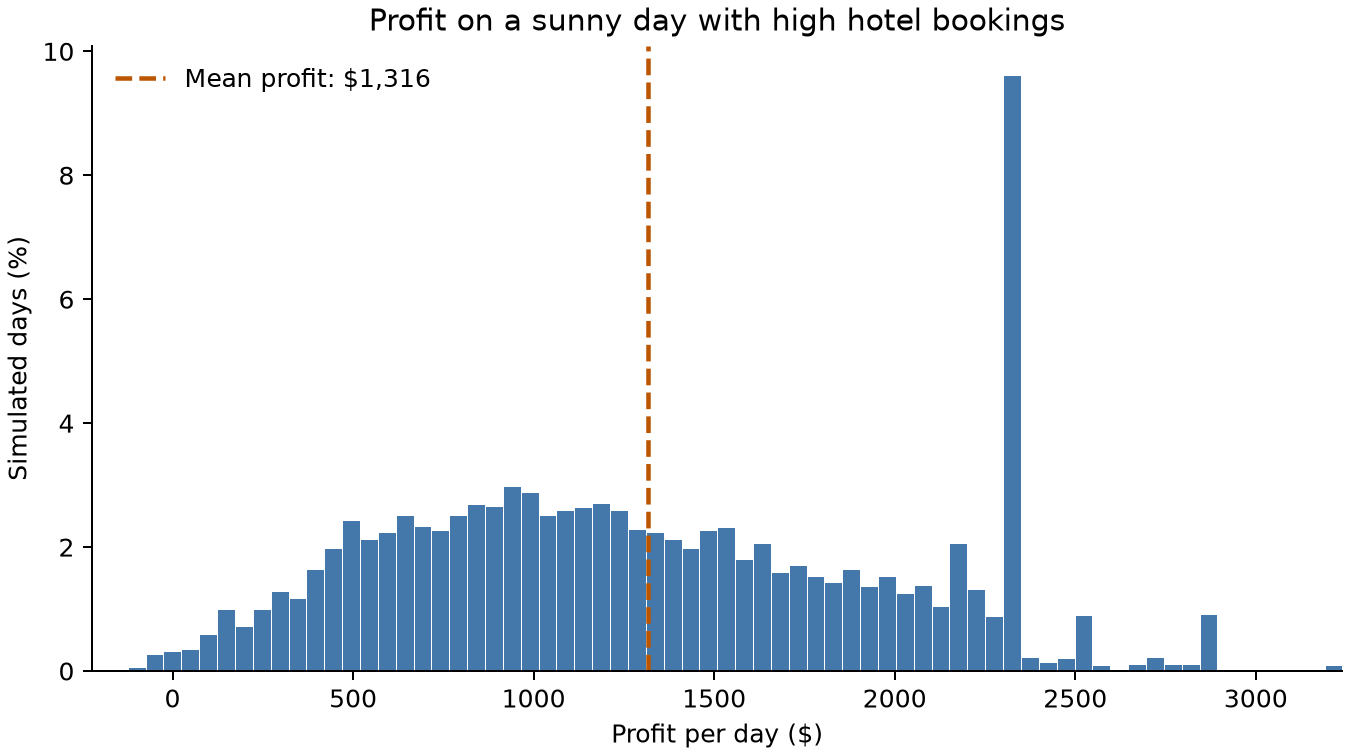
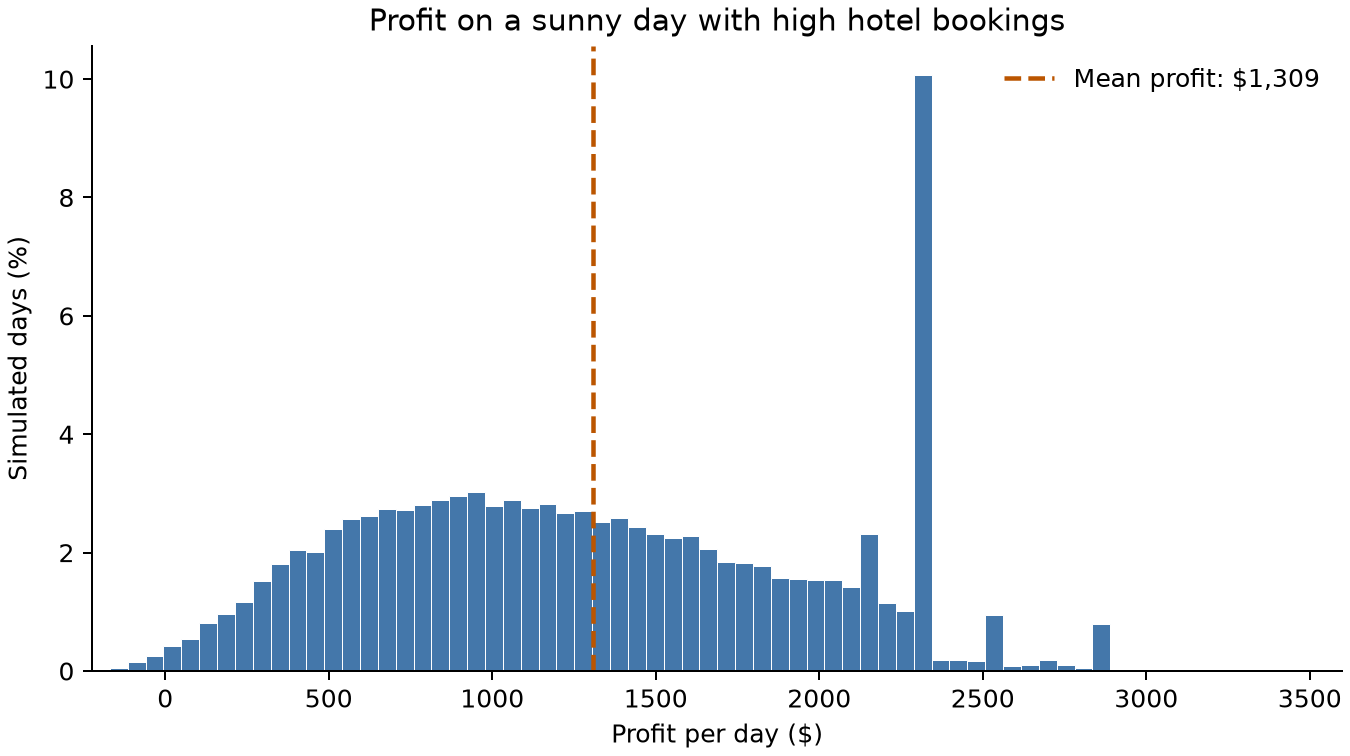
docs: update inference guide for fitted-policy conditioning

diff --git a/docs/_static/figures/inference/plot_recommended_policy_profit.py b/docs/_static/figures/inference/plot_recommended_policy_profit.py
@@ -28,7 +28,7 @@ figures = [
         "recommended_policy_profit.png",
     ),
     (
-        namespace["sunny_profit"],
+        namespace["sunny_profit"].values,
         "Profit on a sunny day with high hotel bookings",
         "sunny_policy_profit.png",
     ),

diff --git a/design/documentation_update_todo.md b/design/documentation_update_todo.md
@@ -12,11 +12,11 @@ Update the existing documentation for the policy-gradient-only API, preserving t
 | Building a diagram | Complete. Uses `TabularSoftmax`, retains the construction and editing examples, and executes successfully. |
 | Distributions and utilities | Complete. The combined and split utility models produce matching fitted probabilities and expected profit. |
 | Solving a diagram | Complete. Fitted-policy summaries, training comparisons, wider order menu, cart coordination, and continuous information examples execute successfully. |
-| Inference | Next. Update fitted-policy evaluation and the sunny/high-bookings scenario within the current support boundaries. |
+| Inference | Complete. Uses fitted policies with direct chance-node conditioning, and the examples, figures, and API-reference boundaries have been checked. |
 | Remaining guides, resources, README, and figures | Pending. Follow the page-by-page checklist below. |
-| Full strict documentation build | Failing with six warnings: notebook failures and paired traceback warnings in Inference, Multiple decisions, and Count distributions. |
+| Full strict documentation build | Failing with four warnings: notebook failures and paired traceback warnings in Multiple decisions and Count distributions. The inference page executes without warnings. |
 
-The API reference, quickstart, and first three user guides are complete, but the documentation migration is still in progress. The current Solving update is uncommitted. The build evidence and checks are recorded in the [verification log](#verification-log).
+The API reference, quickstart, and first four user guides are complete, but the documentation migration is still in progress. The build evidence and checks are recorded in the [verification log](#verification-log).
 
 ## Starting point
 
@@ -49,7 +49,7 @@ The API reference now covers the current contract. Unchecked items in this secti
 - [ ] Update errors and examples for `InferenceError`, `SolveError`, and configuration `ValueError`s according to the implementation.
 - [ ] Repair imports and cross-references for the graph, diagram, node, and policy packages. Keep internal helpers out of the public API reference.
 - [ ] Explain that fitted actions remain stochastic, expected utility is estimated on independent scenarios, and training gives no convergence or optimality guarantee. Distinguish evaluation noise from policy quality and explain poorly visited or impossible tabular rows where relevant.
-- [ ] Preserve the current inference and distribution boundaries: finite categorical actions, JAX-traceable functions, explicit information and memory arcs, count-support limits, and unsupported posterior inference through relevant function or fitted policy rules.
+- [ ] Preserve the current inference and distribution boundaries: finite categorical actions, JAX-traceable functions, explicit information and memory arcs, count-support limits, posterior conditioning through fitted categorical policies, and forward-only evaluation of supplied deterministic function policies.
 
 ## Page-by-page work
 
@@ -60,7 +60,7 @@ For each page, read the existing prose first, update the example and its interpr
 - [x] `docs/user_guide/building_a_diagram.md`: introduce the required decision configuration while preserving the build, validate, and draw progression.
 - [x] `docs/user_guide/distributions_and_utilities.md`: check model consistency, JAX requirements, inference claims, examples, and demand figures.
 - [x] `docs/user_guide/solving.md`: explain fitting a policy, choosing a family, controlling training and evaluation, reading stochastic results, and checking the expanded order menu.
-- [ ] `docs/user_guide/inference.md`: evaluate fitted policies with the current API while preserving the intentional booking-information variant, aligned draws, comparisons, and inference figures.
+- [x] `docs/user_guide/inference.md`: evaluate fitted policies with the current API while preserving the intentional booking-information variant, aligned draws, comparisons, and inference figures.
 - [ ] `docs/user_guide/multiple_decisions.md`: preserve the promotion story and explain joint fitting with explicit information parents and memory.
 - [ ] `docs/resources/common_pitfalls.md` and `docs/resources/count_distributions.md`: update standalone examples and diagnostics; remove obsolete solver advice while retaining relevant modeling and inference limits.
 - [ ] `docs/index.md`, `docs/getting_started/installation.md`, and `README.md`: align claims, quick examples, links, and terminology with the updated guides. Keep the README example consistent with the quickstart.
@@ -220,6 +220,17 @@ Completed on 2026-10-26 without committing. Updated the shared model, fitted-rul
 - The page produces no warnings. The strict full build now exits with code **1** and **six warnings**, all from the remaining Inference, Multiple decisions, and Count distributions notebook failures and their traceback reports. Removed-name references no longer produce warnings. Log: `docs/_build/solving-update.log`.
 - Checked **116 local page and anchor links** and **three image references**; all resolve. Ruff lint, formatting, type checks, and `git diff --check` pass. No library code or figure scripts changed.
 
+### Inference update
+
+Updated on 2026-10-27. The sunny/high-bookings scenario now passes `observed={"weather": 1, "bookings": 1}` together with the fitted policy and obtains 50,000 conditional profit draws directly. The hotel-report information arc and refitting example remain, along with the original weather-based policy, fixed-order comparison, and sunny-day stockout question. The page explains aligned draws and support for fitted rules with continuous or mixed information. The inference and policy API pages now describe the same support boundary.
+
+- All **nine code cells** execute successfully, with no notebook errors or inference-page warnings. Verified the displayed policy probabilities and numerical outputs against the executed notebook.
+- The original policy's independently estimated expected profit is **626.50**, and the inference draws estimate **631.16**. For sunny days with high bookings, the refitted rule assigns about **70%** probability to ordering **260** ice creams and the conditional mean profit is **1309.28**. The fixed-order comparison estimates **562.20**, sunny-day demand averages **150.44**, and the stockout probability is **43.0%**. Prose and figure labels use the corresponding rounded values.
+- Regenerated and visually inspected all four inference figures. The recommended-profit and sunny/high-bookings images changed. The comparison and sunny-demand images are unchanged. The plotting script now reads conditional profit draws from their `Posterior` object. Log: `docs/_build/inference-conditioning-figures.log`.
+- The strict full build with forced notebook execution exits with code **1** and **four warnings**, all from the pending Multiple decisions and Count distributions notebook failures and their traceback reports. Log: `docs/_build/inference-conditioning-build.log`. The subsequent incremental build of the updated API references succeeds without warnings. Log: `docs/_build/inference-conditioning-api-build.log`.
+- Checked **113 local links and anchors** and **seven image references** in the rendered inference page. All resolve.
+- Full test suite: **410 passed**. Ruff lint, formatting, type checks, and `git diff --check` pass. Test log: `docs/_build/inference-conditioning-tests.log`. No library code changed.
+
 ## Next step
 
-Update `docs/user_guide/inference.md` for fitted stochastic policies, preserving the questions about recommended profit, an alternative order, and sunny-day demand. Adapt the sunny/high-bookings profit scenario through a supported representation: relevant fitted policies cannot currently be combined with observed chance-node evidence. Re-run the examples and regenerate affected figures without replacing the fitted rules with deterministic actions.
+Continue with `docs/user_guide/multiple_decisions.md`, preserving the promotion story and explicit-memory lesson while adapting it to joint stochastic policy fitting. Count distributions and the remaining checklist items follow separately.

diff --git a/docs/user_guide/inference.md b/docs/user_guide/inference.md
@@ -119,16 +119,16 @@ recommended_profit = infer(
 round(recommended_profit.mean().item(), 1)
 ```
 
-The result is a {py:class}`Posterior` object whose `values` are a JAX array containing the profit draws. Each draw represents the profit on one possible day (i.e., the model draws values for weather, `busyness`, hotel bookings and demand, and the policy samples an order from its fitted probabilities).
+The result is a {py:class}`Posterior` object whose `values` are a JAX array containing the profit draws. Each draw represents the profit on one possible day (i.e., the model draws values for weather, `busyness`, hotel bookings and demand, and the policy samples an order from its fitted probabilities). When we query several nodes in the same call, values at the same position in their arrays describe the same day.
 
-Numerical summaries such as `mean()` also return JAX arrays. For this scalar profit node, the mean is a zero-dimensional array; `.item()` converts it to a Python number for display above.
+Numerical summaries such as `mean()` also return JAX arrays. For this scalar profit node, the mean is a zero-dimensional array. `.item()` converts it to a Python number for display above.
 
 Here `num_samples` is the number of days to simulate. `rng_key` controls their randomness and defaults to a fixed key, so repeated calls with the same model and settings are reproducible.
 
 ```{admonition} Why the estimates differ
 :class: info
 
-Here {py:func}`solve` estimates an expected profit of \$632, while {py:func}`infer` estimates \$634, both under the same policy. This small mismatch comes from using different simulated days.
+Here {py:func}`solve` estimates an expected profit of \$626.5, while {py:func}`infer` estimates \$631.2, both under the same policy. This small mismatch comes from using different simulated days.
 ```
 
 If we plot the resulting draws, we get the following long-tailed distribution:
@@ -138,7 +138,7 @@ If we plot the resulting draws, we get the following long-tailed distribution:
 :width: 90%
 ```
 
-The spikes at \$720 and \$2,340 correspond to selling all 80 ice creams on a cloudy day or all 260 ice creams on a sunny day. However, once the shop sells out, higher demand cannot increase that day's profit.
+The main spikes at \$720 and \$2,340 correspond to selling all 80 ice creams on a cloudy day or all 260 ice creams on a sunny day, the orders favoured by the fitted policy. Once the shop sells out, higher demand cannot increase that day's profit.
 
 ### What if today is sunny and hotel bookings are high?
 
@@ -162,23 +162,22 @@ report_solution = solve(report_diagram)
 print(report_solution.render())
 ```
 
-We can now use {py:func}`infer` to see the distribution of profits for sunny days with high bookings under that policy. Fitted policies currently support forward simulation without `observed`, so we draw weather, bookings and profit together, then keep the days matching the report. Values at the same position in each array belong to the same simulated day:
+We can now use {py:func}`infer` to see the distribution of profits for sunny days with high bookings under that policy. We pass both observations through `observed`, using state index `1` for `"sunny"` and `"high"`:
 
 ```{code-cell} ipython3
-report_draws = infer(
+sunny_profit = infer(
     report_diagram,
-    query=["weather", "bookings", "profit"],
+    query=["profit"],
+    observed={"weather": 1, "bookings": 1},
     policy=report_solution.policy,
     num_samples=50_000,
-)
-sunny_high = (report_draws["weather"].values == 1) & (
-    report_draws["bookings"].values == 1
-)
-sunny_profit = report_draws["profit"].values[sunny_high]
+)["profit"]
 round(sunny_profit.mean().item(), 1)
 ```
 
-The new policy recommends ordering 280 ice creams, with an estimated average profit of about \$1,310. We can also see the distribution of profits for that day:
+These 50,000 draws describe days consistent with both observations. `infer` uses the policy's learned action probabilities when conditioning the model. We can also combine fitted policies with `observed` when their information parents are continuous or mixed.
+
+For sunny days with high bookings, the fitted rule assigns about 70% probability to ordering 260 ice creams. Its probabilities are less concentrated than in the other rows, and this combination of weather and bookings appears less often during training. The estimated average profit is about \$1,309. We can also see the distribution of profits for that day:
 
 ```{figure} /_static/figures/inference/sunny_policy_profit.png
 :alt: Histogram of profit on a sunny day with high hotel bookings under the policy that uses both variables, with a line marking its mean.
@@ -199,7 +198,7 @@ alternative_profit = infer(
 round(alternative_profit.mean().item(), 1)
 ```
 
-The mean of these draws gives an estimated expected profit of about \$562, compared with \$634 under the recommended policy. We can also compare both distributions, using no observations in either case:
+The mean of these draws gives an estimated expected profit of about \$562, compared with \$631 under the recommended policy. We can also compare both distributions, using no observations in either case:
 
 ```{figure} /_static/figures/inference/policy_comparison.png
 :alt: Histograms comparing profit under the recommended weather-based policy and a fixed order of 160 ice creams, with lines marking their means.
@@ -237,3 +236,5 @@ To estimate the probability of running out, we count how many demand draws excee
 stockout_probability = (sunny_demand.values > 150).mean()
 f"{stockout_probability:.1%}"
 ```
+
+Under this model, demand exceeds the available stock on about 43% of sunny days.

diff --git a/design/documentation_plan.md b/design/documentation_plan.md
@@ -1,6 +1,6 @@
 # Documentation maintenance
 
-Maintenance guide for the published documentation in `docs/` and the project `README.md`. The engine has been refactored to policy-gradient-only optimization. The API reference, quickstart, and first three user guides now describe the current contract; the remaining guides and README examples await migration. Progress and verification are tracked in [the documentation update checklist](documentation_update_todo.md). Read this before changing published pages, and update it when the structure or conventions change. Public API details belong in docstrings and the API reference; build instructions live in [docs/README.md](../docs/README.md).
+Maintenance guide for the published documentation in `docs/` and the project `README.md`. The engine has been refactored to policy-gradient-only optimization. The API reference, quickstart, and first four user guides now describe the current contract. The remaining guides and README examples await migration. Progress and verification are tracked in [the documentation update checklist](documentation_update_todo.md). Read this before changing published pages, and update it when the structure or conventions change. Public API details belong in docstrings and the API reference. Build instructions live in [docs/README.md](../docs/README.md).
 
 ## Site structure and scope
 
@@ -37,7 +37,7 @@ Keep the quickstart and README's order menu at 0–200. The Solving guide delibe
 
 ### Accuracy and examples
 
-- Check API claims against the implementation and API reference. `solve` always jointly trains the declared policy families; the built-in families are `LinearSoftmax` and `TabularSoftmax`, and custom families implement `PolicyFamily`. There is no solver selector. Each rule receives only its declared information parents, including explicit memory arcs. Fitted policies remain stochastic during forward evaluation. Describe independent utility estimates as approximate results, with no convergence or optimality certificate. Posterior inference through fitted policies and supplied functions remains unsupported. Keep distribution contracts in `ChanceNode`.
+- Check API claims against the implementation and API reference. `solve` always jointly trains the declared policy families; the built-in families are `LinearSoftmax` and `TabularSoftmax`, and custom families implement `PolicyFamily`. There is no solver selector. Each rule receives only its declared information parents, including explicit memory arcs. Fitted policies contribute their learned action probabilities to forward evaluation and posterior conditioning, including with continuous or mixed information. Describe independent utility estimates as approximate results, with no convergence or optimality certificate. Supplied deterministic function policies still support forward evaluation only. Keep distribution contracts in `ChanceNode`.
 - Distributions and utilities must be JAX-traceable. Do not describe them as arbitrary Python code; explain the restrictions on casts and Python control flow where relevant.
 - Both `infer` and `solve` return Monte Carlo estimates. Distinguish exact discrete enumeration as a method from the accuracy of the returned summaries, including in mixed models. Explain sampling reliability where readers use estimates. Explain that rarely visited policy-table rows can receive little training and impossible rows do not affect expected utility.
 - Keep performance claims modest. Explain when pyAgrum's exact discrete solving may be a better choice.

diff --git a/docs/api/pylimid.rst b/docs/api/pylimid.rst
@@ -10,7 +10,7 @@ These functions and their result and error types are available directly from ``p
 Entry points
 ------------
 
-`infer` accepts a `Policy` containing fixed actions, complete deterministic tables, deterministic functions or fitted `CategoricalPolicy` rules. Functions and fitted rules support forward evaluation without observed chance nodes; conditioning through them remains unsupported. Only decisions relevant to the query or evidence need a rule.
+`infer` accepts a `Policy` containing fixed actions, complete deterministic tables, deterministic functions or fitted `CategoricalPolicy` rules. Fitted rules support forward evaluation and conditioning on chance-node evidence, including with continuous or mixed information parents. Deterministic functions support forward evaluation only. Only decisions relevant to the query or evidence need a rule.
 
 `solve` always uses policy gradients to jointly fit the `PolicyFamily` declared on every decision. Its ``num_samples`` is the number of scenarios per training update and in the independent final evaluation; ``num_steps`` controls the number of updates, and ``learning_rate`` controls the Adam step size. The returned rules remain stochastic. Training has no convergence or optimality guarantee, and increasing evaluation samples only reduces estimation noise.
 
@@ -46,7 +46,7 @@ Results
 Errors
 ------
 
-The error classes below are also exported by ``pylimid.errors``. Invalid diagram configuration and optimizer settings raise `ValueError`; unknown queried or observed node names raise `KeyError`. Relevant function or fitted rules combined with chance-node evidence raise `NotImplementedError`. The entry-point docstrings list the conditions for each error.
+The error classes below are also exported by ``pylimid.errors``. Invalid diagram configuration and optimizer settings raise `ValueError`. Unknown queried or observed node names raise `KeyError`. Relevant deterministic function policies combined with chance-node evidence raise `NotImplementedError`. The entry-point docstrings list the conditions for each error.
 
 .. autosummary::
    :toctree: generated

diff --git a/docs/api/policy.rst b/docs/api/policy.rst
@@ -38,7 +38,7 @@ The following aliases distinguish a rule for one decision from a mapping of rule
    :canonical: pylimid.policy.rules.DecisionRule
    :type: ActionTable | collections.abc.Callable[..., int | jax.Array] | CategoricalPolicy
 
-   A contingent rule for one decision: a deterministic `ActionTable`, a deterministic function or a fitted stochastic `CategoricalPolicy`. A function accepts its information parents by keyword and returns a scalar integer action index as a Python ``int`` or JAX array. It must be JAX-traceable. Functions and fitted rules support forward evaluation without chance-node evidence.
+   A contingent rule for one decision: a deterministic `ActionTable`, a deterministic function or a fitted stochastic `CategoricalPolicy`. A function accepts its information parents by keyword and returns a scalar integer action index as a Python ``int`` or JAX array. It must be JAX-traceable and supports forward evaluation only. Fitted rules also support conditioning on chance-node evidence.
 
 .. py:data:: Policy
    :canonical: pylimid.policy.rules.Policy
@@ -50,7 +50,7 @@ The following aliases distinguish a rule for one decision from a mapping of rule
    :canonical: pylimid.policy.rules.FittedPolicy
    :type: dict[str, CategoricalPolicy]
 
-   The joint policy returned by `solve`, containing a fitted stochastic rule for every decision. Each rule retains its family, parameters, information metadata and action labels. Pass the mapping directly to ``infer(policy=solution.policy)`` for forward evaluation; its actions remain stochastic.
+   The joint policy returned by `solve`, containing a fitted stochastic rule for every decision. Each rule retains its family, parameters, information metadata and action labels. Pass the mapping directly to ``infer(policy=solution.policy)`` for forward evaluation or combine it with ``observed=`` to condition on chance-node evidence. Its action probabilities contribute to the joint model.
 
 Family inputs and parameters
 ----------------------------
